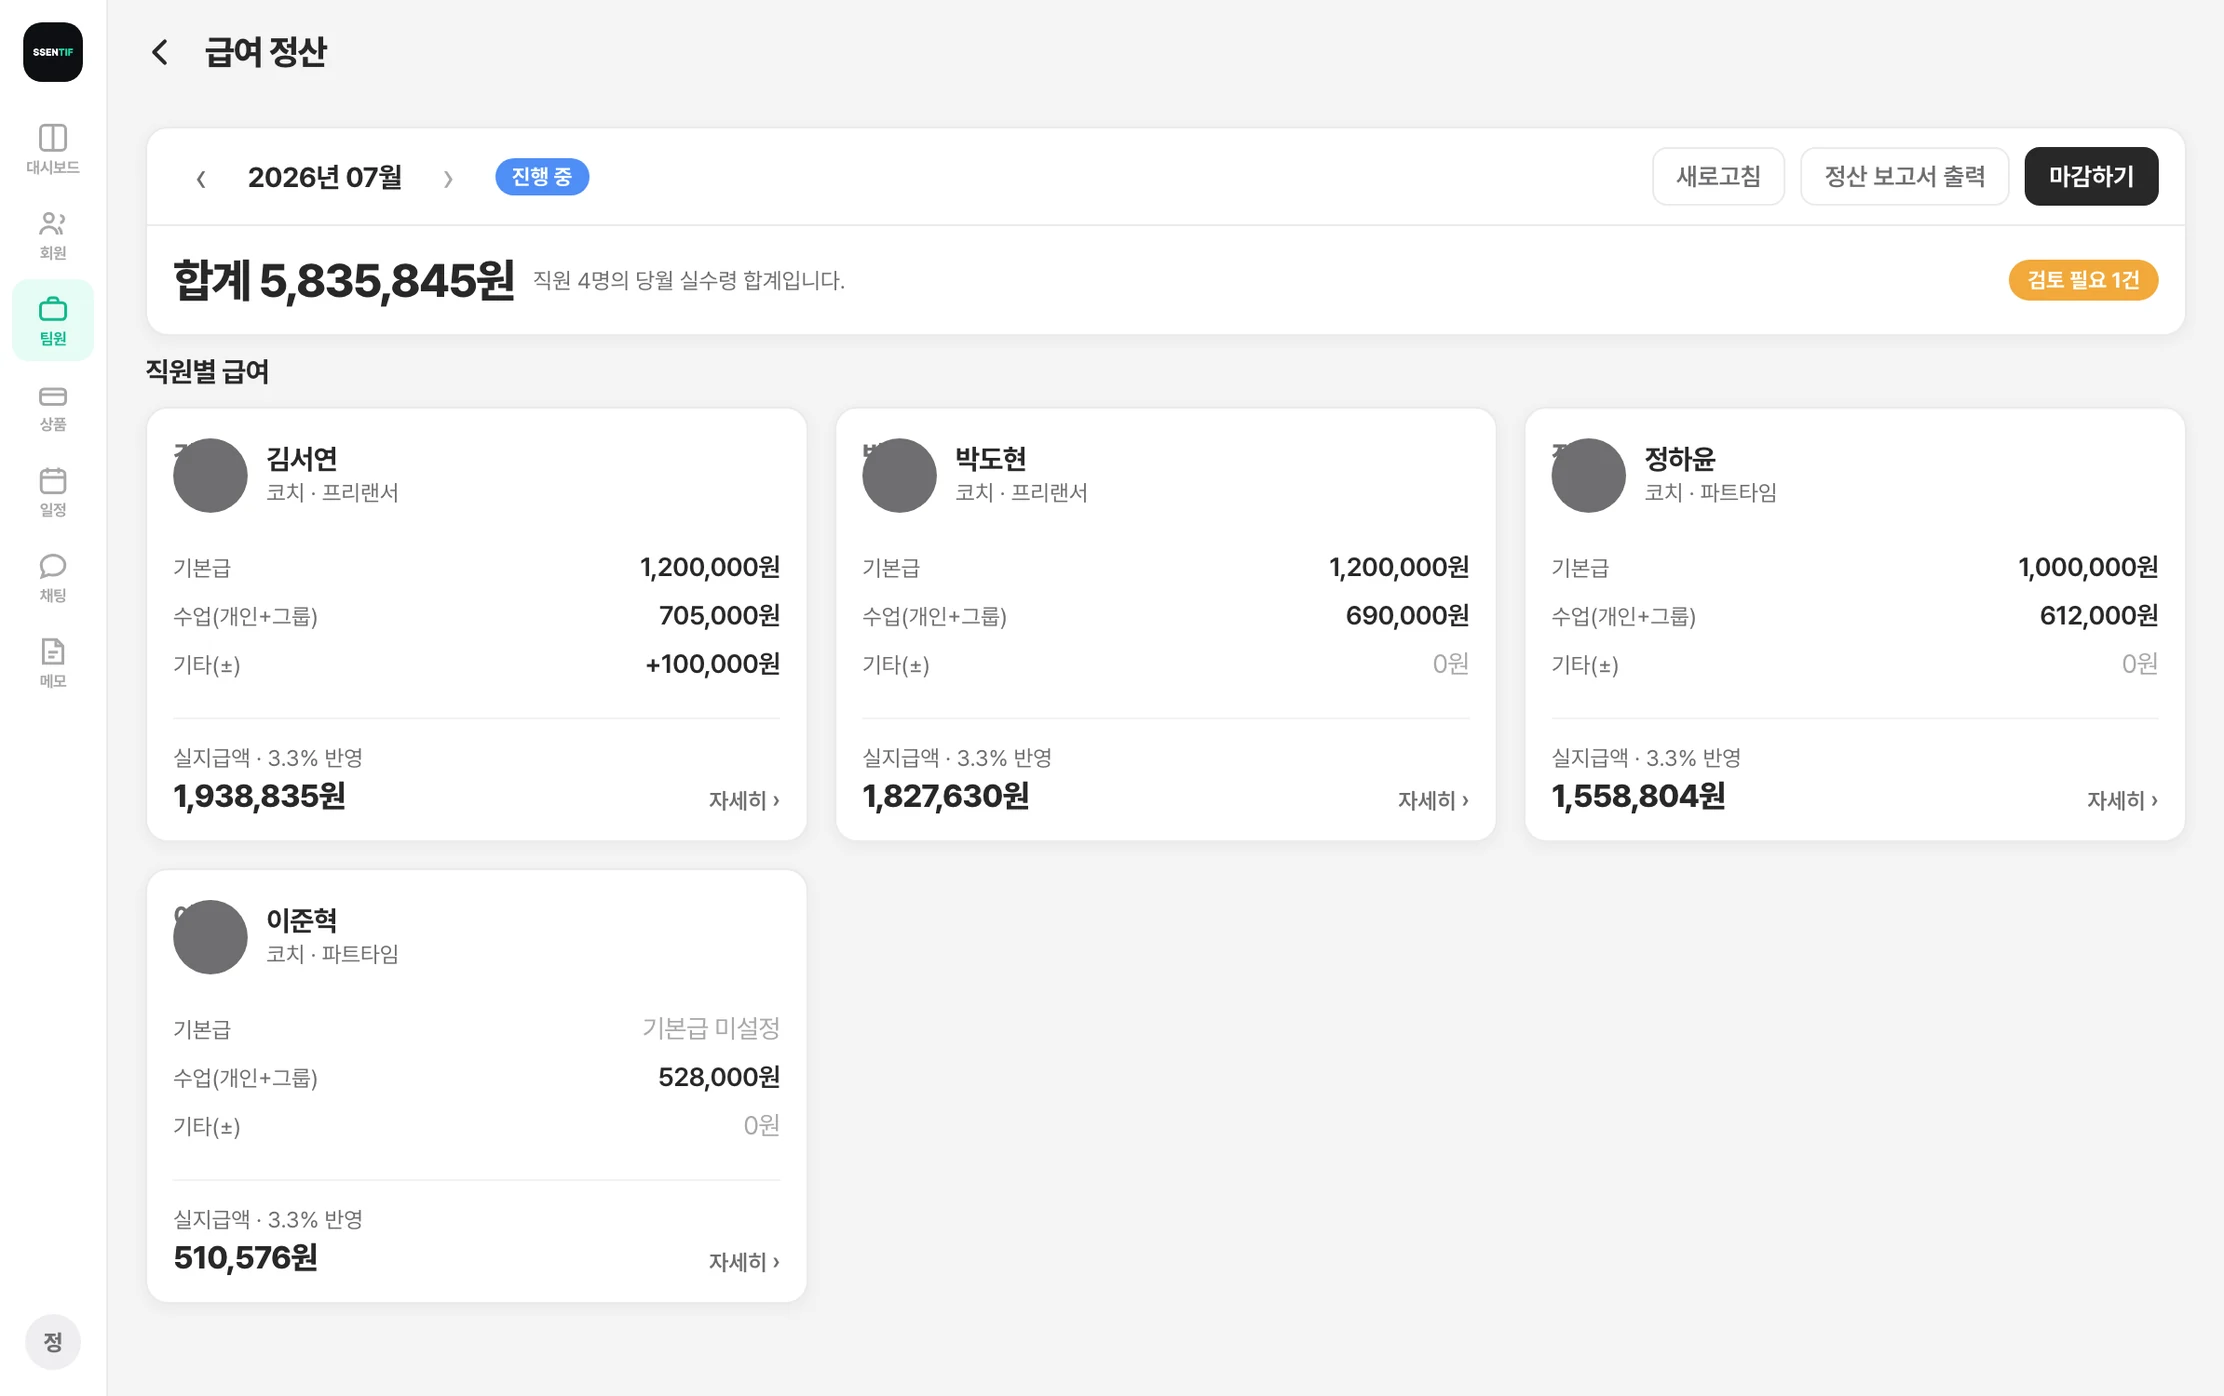
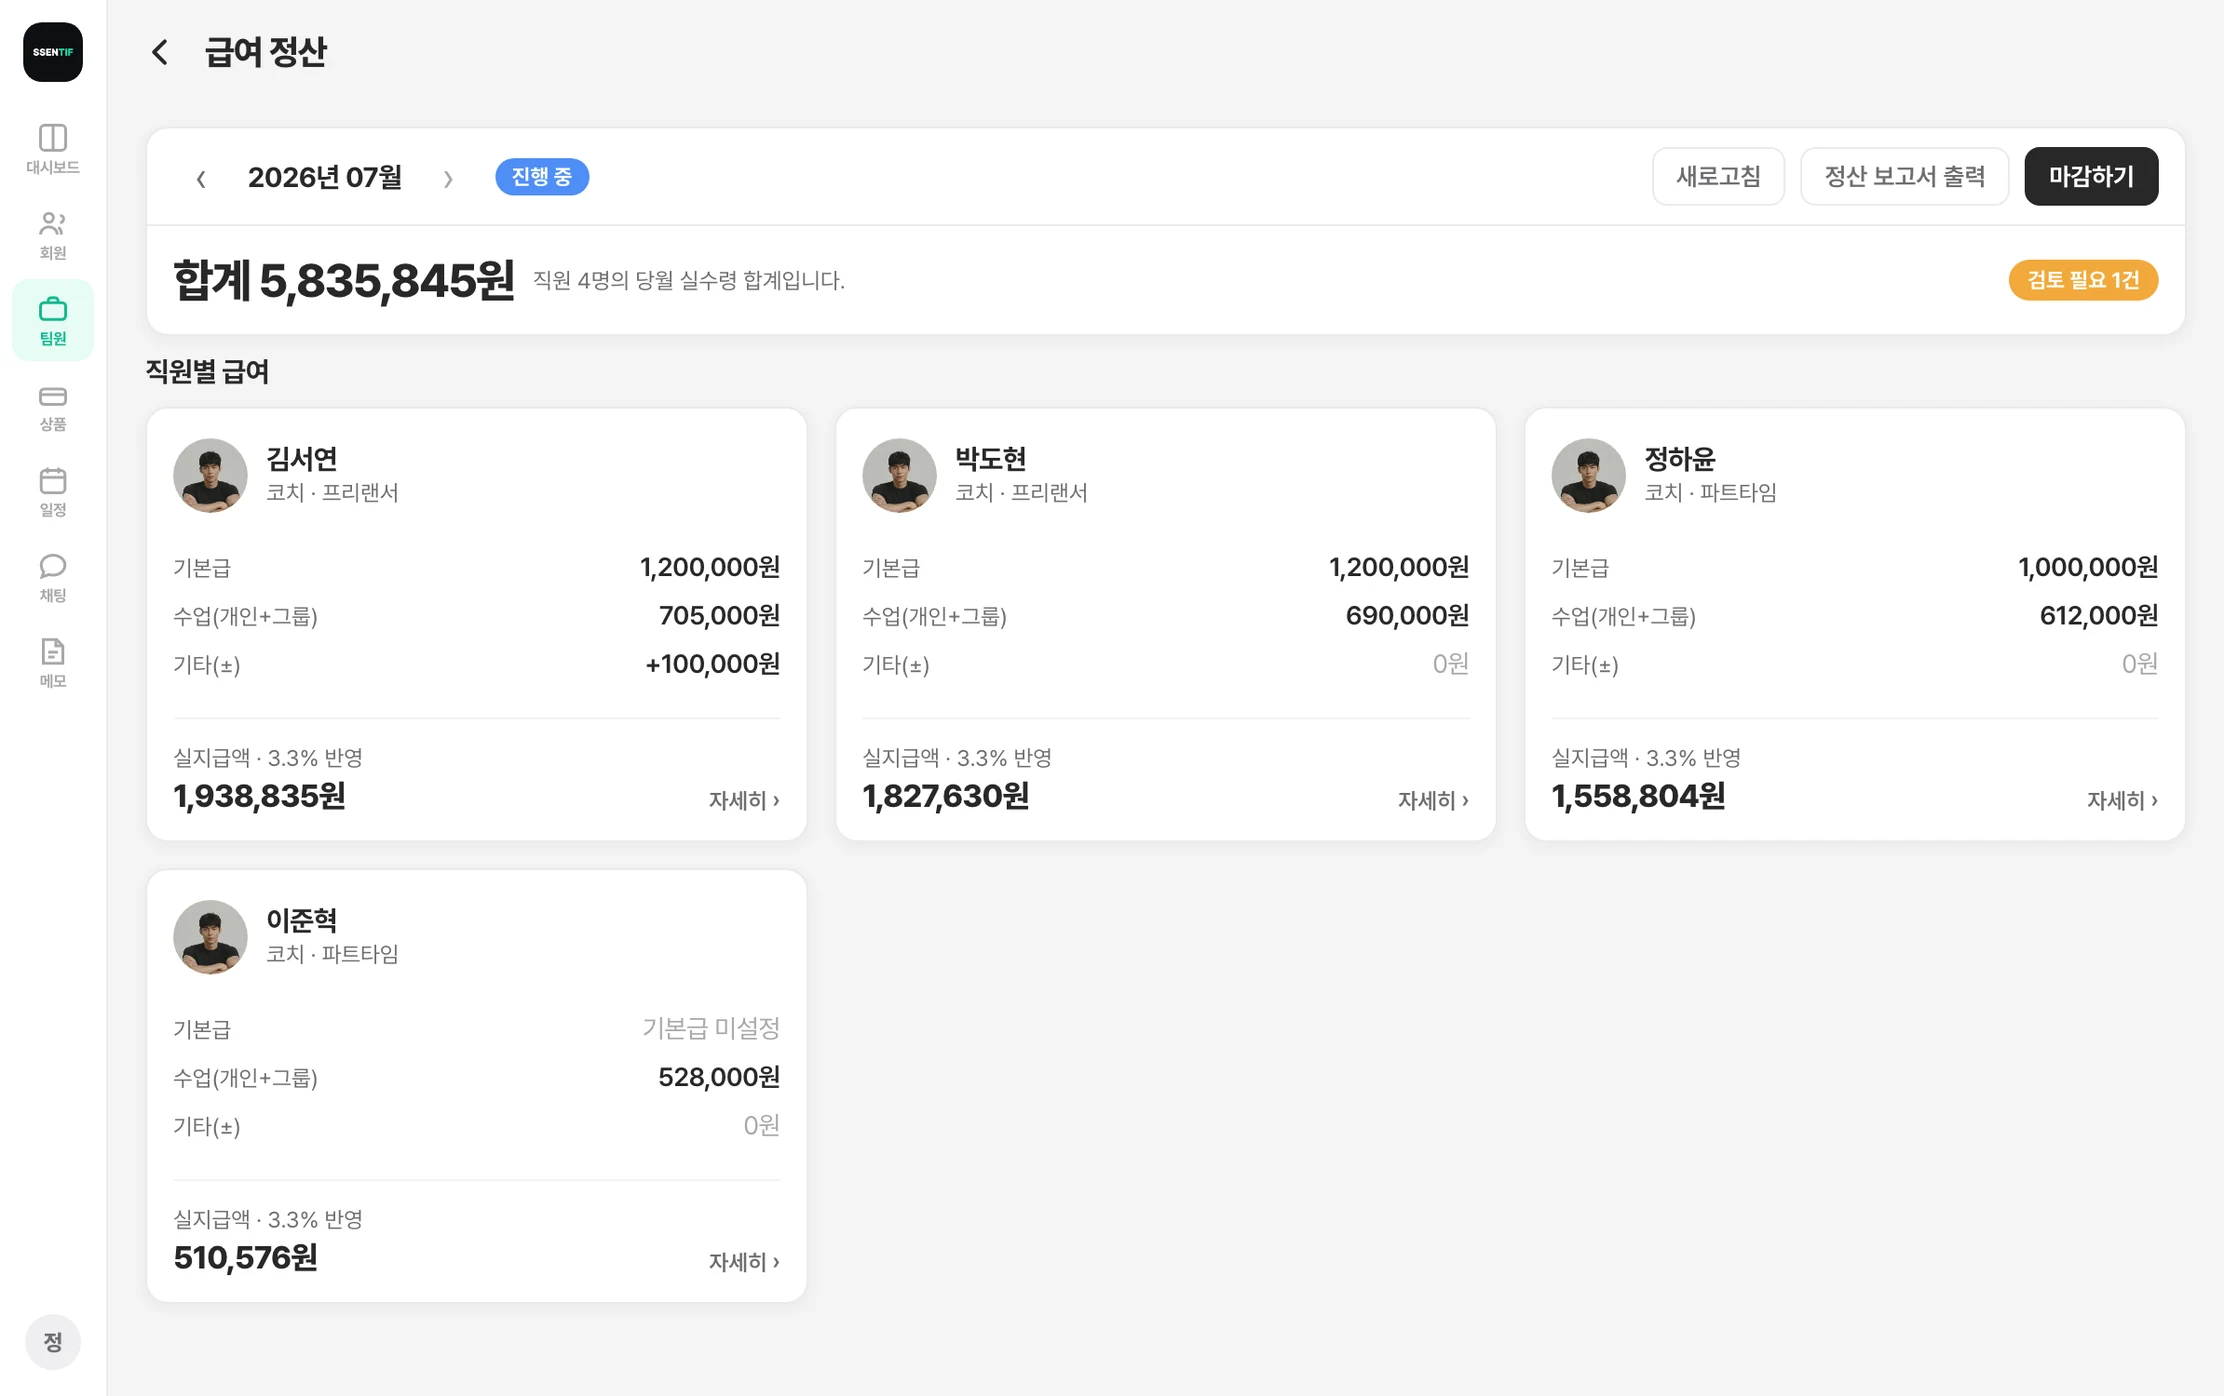
product.html 해결 7가지 ①~⑦ 확정 + 도입 프로세스 섹션 추가, index.html 연동 장면 갱신
- 해결 7가지: ③회원연동(수업일지 세트데이터+운동사진), ④데이터기반운영(매출현황카드 전면재구성), ⑤자동급여정산(강사 얼굴사진), ⑥AI매니저/⑦다지점운영(컴포넌트 카드 신규제작)
- CTA 밴드 위에 도입 프로세스 섹션(consulting.html 원본 복사) 신규 추가
- index.html ③④⑤ 장면도 step-detect.html·step-payroll.html 변경사항 함께 반영

diff --git a/product.html b/product.html
@@ -139,6 +139,10 @@
 .pf-num i { font-style: normal; width: 26px; height: 26px; border-radius: 50%;
   background: var(--accent); color: var(--white); display: inline-flex;
   align-items: center; justify-content: center; font-size: 12.5px; }
+/* ⑥ AI 매니저 — 아직 준비 중임을 아주 작게만 표시(2026-08-06) */
+.pf-num .soon { font-size: 10px; font-weight: 700; color: var(--gray-500);
+  background: var(--gray-100); border: 1px solid var(--border);
+  border-radius: 999px; padding: 2px 7px; letter-spacing: -.01em; }
 .pf-item h3 { font-size: clamp(1.45rem, 2.9vw, 2.15rem); font-weight: 900;
   line-height: 1.34; letter-spacing: -.03em; }
 .pf-item .pf-desc { margin-top: 18px; font-size: 16.5px; color: var(--gray-600);
@@ -147,12 +151,101 @@
   background: var(--white); box-shadow: 0 26px 64px rgba(13,15,18,.13); }
 .pf-shot img { width: 100%; height: auto; display: block; }
 
-/* 6·7번 — 한 줄에 두 개(사용자 지시 2026-08-06). 이미지도 태블릿 전체가 아니라
-   카드 폭에 맞춘 크롭을 쓴다(AI: 사이드바+답변, 워크스페이스: 중앙 리스트만). */
+/* 6·7번 — 한 줄에 두 개(2026-08-06). 이미지는 화면 전체도, 칸 폭 채우기도 아니라
+   "기능 UI 컴포넌트" 캡처 원본 크기 그대로 쓴다(2026-08-06 2차) — 카드 자체가 이미
+   둥근 모서리·테두리·그림자를 갖춘 독립 카드라, 칸 폭에 맞춰 늘리면 오히려 어색하다.
+   그래서 바깥 `.pf-shot` 프레임(테두리·배경·그림자)은 빼고 이미지를 그대로 가운데 둔다. */
 .pf-pair { display: grid; grid-template-columns: 1fr 1fr; gap: 28px; align-items: start; }
 .pf-pair .pf-item { margin-bottom: 0; }
 .pf-pair .pf-head { max-width: none; text-align: left; margin-bottom: 24px; }
-.pf-pair .pf-shot { box-shadow: 0 18px 44px rgba(13,15,18,.11); }
+.pf-pair .pf-shot { border: none; border-radius: 0; background: transparent;
+  box-shadow: none; overflow: visible; display: flex; justify-content: center; }
+.pf-pair .pf-shot img { width: auto; max-width: 100%; height: auto; }
+
+/* ── 도입 프로세스 — consulting.html "도입 절차" 섹션을 그대로 복사(2026-08-06).
+   CTA(.cta-band) 바로 위에 배치 — "이렇게 해결합니다" 다음 "어떻게 시작하나요"로
+   자연스럽게 이어지도록. .section-head/.label 은 공용 style.css 정의를 그대로 쓴다. */
+.proc-sub { font-size: 14.5px; color: var(--gray-500); line-height: 1.7; margin-top: 14px; }
+.proc-grid {
+  display: grid; grid-template-columns: repeat(5, 1fr); gap: 16px;
+  max-width: 1080px; margin: 44px auto 0;
+}
+.proc-card {
+  position: relative; overflow: hidden; text-align: left;
+  background: var(--white);
+  border: 1px solid var(--border);
+  border-radius: 18px;
+  padding: 26px 20px 24px;
+  transition: transform 0.25s, box-shadow 0.25s, border-color 0.25s;
+}
+.proc-card:hover {
+  transform: translateY(-4px);
+  box-shadow: 0 16px 36px rgba(15,23,20,0.08);
+  border-color: var(--gray-300);
+}
+.proc-card::before {
+  content: attr(data-step);
+  position: absolute; top: -18px; right: 6px;
+  font-size: 84px; font-weight: 900; line-height: 1;
+  letter-spacing: -0.05em; color: var(--gray-100);
+  pointer-events: none; transition: color 0.3s;
+}
+.proc-card:hover::before { color: var(--accent-light); }
+.pc-num {
+  position: relative; z-index: 1;
+  display: block; margin-bottom: 30px;
+  font-size: 11px; font-weight: 900; letter-spacing: 0.14em;
+  color: var(--accent-dark);
+}
+.proc-card h4 {
+  position: relative; z-index: 1;
+  font-size: 16px; font-weight: 800; color: var(--black); margin-bottom: 12px;
+}
+.pc-line {
+  position: relative; z-index: 1;
+  font-size: 12.5px; color: var(--gray-500); line-height: 1.7; margin: 0;
+  padding-left: 11px;
+}
+.pc-line::before {
+  content: ''; position: absolute; left: 0; top: 9px;
+  width: 4px; height: 4px; border-radius: 50%; background: var(--gray-300);
+}
+.pc-strong { color: var(--accent-dark); font-weight: 800; font-size: 13px; }
+.pc-strong::before { background: var(--accent); }
+.proc-final { background: var(--black); border-color: var(--black); }
+.proc-final::before { color: rgba(255,255,255,0.07); }
+.proc-final:hover::before { color: rgba(31,219,168,0.16); }
+.proc-final .pc-num { color: var(--accent); }
+.proc-final h4 { color: var(--white); }
+.proc-final .pc-line { color: rgba(255,255,255,0.65); }
+.proc-final .pc-line::before { background: rgba(255,255,255,0.3); }
+.proc-final .pc-strong { color: var(--accent); }
+.proc-final .pc-strong::before { background: var(--accent); }
+@media (max-width: 900px) {
+  .proc-grid { grid-template-columns: repeat(3, 1fr); }
+}
+@media (max-width: 560px) {
+  .proc-grid { grid-template-columns: 1fr 1fr; gap: 12px; }
+  .proc-card { padding: 22px 16px 20px; }
+  .proc-card::before { font-size: 68px; top: -14px; }
+  .pc-num { margin-bottom: 24px; }
+}
+.field-photos { max-width: 1080px; margin: 56px auto 0; }
+.fp-grid { display: grid; grid-template-columns: repeat(4, 1fr); gap: 12px; }
+.fp-item {
+  margin: 0; overflow: hidden; border-radius: 16px;
+  background: var(--gray-100); aspect-ratio: 4 / 3;
+}
+.fp-item img {
+  width: 100%; height: 100%; object-fit: cover; display: block;
+  transition: transform 0.4s ease;
+}
+.fp-item:hover img { transform: scale(1.05); }
+@media (max-width: 700px) {
+  .field-photos { margin-top: 40px; }
+  .fp-grid { grid-template-columns: 1fr 1fr; gap: 10px; }
+  .fp-item { border-radius: 14px; }
+}
 
 /* ── 마지막 후킹 — index.html 의 .cta-band 를 그대로 쓴다(전용 스타일 폐기, 2026-08-06) */
 
@@ -254,7 +347,7 @@
 
     <div class="solve-head fade-up">
       <div class="kicker"><i></i><span>센티프가 해결하는 방식</span><i></i></div>
-      <h2>대표님을 괴롭히는 이 문제들,<br>센티프는 이렇게 해결합니다</h2>
+      <h2>대표님을 괴롭히는 이 문제들,<br>이렇게 해결합니다</h2>
     </div>
   </div>
 </section>
@@ -314,14 +407,14 @@
   <!-- 3 -->
   <div class="container pf-item fade-up">
     <div class="pf-head">
-      <div class="pf-num"><i>3</i>회원 앱 연결</div>
+      <div class="pf-num"><i>3</i>회원 연동</div>
       <h3>수업일지와 운동 숙제가<br>회원 앱으로 바로 전달됩니다</h3>
       <p class="pf-desc">강사가 운동 라이브러리에서 종목을 골라 조합하기만 하면, 그것이 그대로 수업 기록이 되고
         회원의 숙제가 됩니다. 센터만의 운동도 직접 등록해 쓸 수 있습니다.</p>
     </div>
     <div class="pf-shot">
-      <img src="assets/app/ssentif-pf-library.webp?v=1785989313" width="2224" height="1396"
-           alt="센티프 운동 라이브러리 — 부위·기구로 걸러 종목을 고르고 회원에게 보내는 화면"
+      <img src="assets/app/ssentif-pf-journal.webp?v=1786000640" width="2224" height="1396"
+           alt="센티프 수업일지 작성 화면 — 운동별 세트 기록과 사진, 코치 메모를 실시간으로 남기는 모습"
            loading="lazy" decoding="async">
     </div>
   </div>
@@ -329,13 +422,13 @@
   <!-- 4 -->
   <div class="container pf-item fade-up" id="manager">
     <div class="pf-head">
-      <div class="pf-num"><i>4</i>데이터 전환</div>
+      <div class="pf-num"><i>4</i>데이터 기반 운영</div>
       <h3>감으로 대처하던 현장이<br>숫자로 보이기 시작합니다</h3>
       <p class="pf-desc">회원의 만족도와 이탈 신호, 반응처럼 보이지 않아 감으로 판단하던 영역을 데이터로 알려드립니다.
         신규 등록과 재등록 중 지금 무엇에 손을 써야 하는지 알 수 있습니다.</p>
     </div>
     <div class="pf-shot">
-      <img src="assets/app/ssentif-pf-detect.webp?v=1785989313" width="2224" height="1396"
+      <img src="assets/app/ssentif-pf-detect.webp?v=1786002060" width="2224" height="1396"
            alt="센티프 관리자 대시보드 — 이탈 위험 회원 알림과 매출 현황, 오늘 수업 현황"
            loading="lazy" decoding="async">
     </div>
@@ -344,13 +437,13 @@
   <!-- 5 -->
   <div class="container pf-item fade-up">
     <div class="pf-head">
-      <div class="pf-num"><i>5</i>자동 정산</div>
-      <h3>강사 급여 정산,<br>자동으로 끝납니다</h3>
-      <p class="pf-desc">출석이 완료되면 회차가 차감되고, 수업 수 × 요율에 따라 강사별 급여명세서가 발급됩니다.
-        월말에 엑셀을 다시 여실 일이 없습니다.</p>
+      <div class="pf-num"><i>5</i>자동 급여 정산</div>
+      <h3>번거롭던 월말 페이롤,<br>이제 자동으로 끝납니다</h3>
+      <p class="pf-desc">출석이 완료되면 회차가 차감되고, 수업 수 × 정산기준에 따라 강사별 급여 명세서가 발급됩니다.
+        월말에 엑셀에 시달릴 필요가 없습니다.</p>
     </div>
     <div class="pf-shot">
-      <img src="assets/app/ssentif-pf-payroll.webp?v=1785989313" width="2224" height="1396"
+      <img src="assets/app/ssentif-pf-payroll.webp?v=1785997912" width="2224" height="1396"
            alt="센티프 급여 정산 — 기간별 합계와 직원별 실지급액이 자동 계산된 화면"
            loading="lazy" decoding="async">
     </div>
@@ -361,14 +454,14 @@
     <div class="pf-pair fade-up">
       <div class="pf-item" id="ai">
         <div class="pf-head">
-          <div class="pf-num"><i>6</i>AI 운영</div>
-          <h3>AI와 함께<br>한 단계 더 강한 운영을 시작하세요</h3>
+          <div class="pf-num"><i>6</i>AI 매니저 <span class="soon">준비중</span></div>
+          <h3>AI와 함께<br>한 단계 강해진 운영</h3>
           <p class="pf-desc">센티프에 쌓인 센터 데이터를 바탕으로 상담 준비부터 루틴 설계, 마케팅 콘텐츠까지 지원합니다.
             물어보면 우리 센터의 맥락으로 답합니다.</p>
         </div>
         <div class="pf-shot">
-          <img src="assets/app/ssentif-pf-ai-sm.webp?v=1785991489" width="1120" height="418"
-               alt="센티프 AI 어시스턴트 — 센터 데이터를 바탕으로 회원 콘텐츠 초안을 만들어주는 화면"
+          <img src="assets/app/ssentif-pf-ai-sm.webp?v=1786000250" width="1320" height="960"
+               alt="센티프 AI 매니저 — 회원 수업 내용을 바탕으로 만든 콘텐츠 초안 답변"
                loading="lazy" decoding="async">
         </div>
       </div>
@@ -381,8 +474,8 @@
             지점이 늘어도 계정은 하나면 충분하고, 지점을 오갈 때 다시 로그인할 필요가 없습니다.</p>
         </div>
         <div class="pf-shot">
-          <img src="assets/app/ssentif-pf-workspace-sm.webp?v=1785991489" width="1120" height="956"
-               alt="센티프 워크스페이스 선택 — 강남·판교·송파점을 한 계정에서 오가는 화면"
+          <img src="assets/app/ssentif-pf-workspace-sm.webp?v=1786000250" width="1320" height="960"
+               alt="센티프 워크스페이스 전환 — 강남·판교·송파점을 한 계정에서 오가는 리스트"
                loading="lazy" decoding="async">
         </div>
       </div>
@@ -390,6 +483,60 @@
   </div>
 
 </div>
+
+
+<!-- 도입 프로세스 — consulting.html "도입 절차" 섹션 그대로(2026-08-06) -->
+<section class="section" style="background:var(--gray-50)">
+  <div class="container">
+    <div class="section-head fade-up">
+      <div class="label">도입 프로세스</div>
+      <h2>신청부터 정착까지,<br>5단계로 끝납니다</h2>
+      <p class="proc-sub">데이터 이전부터 정착까지, 전부 센티프팀이 도와드립니다.</p>
+    </div>
+
+    <div class="proc-grid">
+      <div class="proc-card fade-up" data-step="1">
+        <span class="pc-num">STEP 1</span>
+        <h4>1:1 도입 상담</h4>
+        <p class="pc-line">센터 구조 파악 및 운영 진단</p>
+        <p class="pc-line">관리자 데모 시연 (방문 또는 화상)</p>
+      </div>
+      <div class="proc-card fade-up" data-step="2">
+        <span class="pc-num">STEP 2</span>
+        <h4>데이터 이전</h4>
+        <p class="pc-line">엑셀 통해서 자동 연동</p>
+        <p class="pc-line">회원·수강권 정보 등</p>
+      </div>
+      <div class="proc-card fade-up" data-step="3">
+        <span class="pc-num">STEP 3</span>
+        <h4>온보딩 교육</h4>
+        <p class="pc-line">관리자·강사 교육 구분 진행</p>
+        <p class="pc-line">방문 또는 화상 (선택)</p>
+      </div>
+      <div class="proc-card fade-up" data-step="4">
+        <span class="pc-num">STEP 4</span>
+        <h4>전담 케어</h4>
+        <p class="pc-line">구성원 카톡 단체방 개설</p>
+        <p class="pc-line">전담 대응</p>
+      </div>
+      <div class="proc-card proc-final fade-up" data-step="5">
+        <span class="pc-num">DONE</span>
+        <h4>시스템 정착</h4>
+        <p class="pc-line pc-strong">사용률 100%</p>
+        <p class="pc-line">모두가 매일 쓰는 도구로</p>
+      </div>
+    </div>
+
+    <div class="field-photos fade-up">
+      <div class="fp-grid">
+        <figure class="fp-item"><img src="assets/training/training-01.jpg" alt="강의실에서 진행한 강사 대상 센티프 사용법 교육" loading="lazy"></figure>
+        <figure class="fp-item"><img src="assets/training/training-02.jpg" alt="센터에 방문해 강사들과 태블릿으로 함께 보는 실전 교육" loading="lazy"></figure>
+        <figure class="fp-item"><img src="assets/training/training-03.jpg" alt="카페에서 진행한 소규모 태블릿 교육" loading="lazy"></figure>
+        <figure class="fp-item"><img src="assets/training/training-04.jpg" alt="교육을 마친 강사들의 단체 사진" loading="lazy"></figure>
+      </div>
+    </div>
+  </div>
+</section>
 
 
 <section class="cta-band">

diff --git a/index.html b/index.html
@@ -2037,7 +2037,7 @@
         <p>출석이 줄어든 회원, 만료가 임박한 회원을 감지합니다. 재등록 타이밍을 놓치지 마세요.</p>
       </div>
       <div class="fd-visual fd-visual-shot">
-        <img src="assets/app/ssentif-step-detect.webp?v=1785949300" width="1032" height="648"
+        <img src="assets/app/ssentif-step-detect.webp?v=1786002060" width="1032" height="648"
              alt="센티프 업무 알림 이탈 탭 — 출석이 줄어든 회원을 위험도별로 감지해 알려주는 화면"
              loading="lazy" decoding="async">
       </div>
